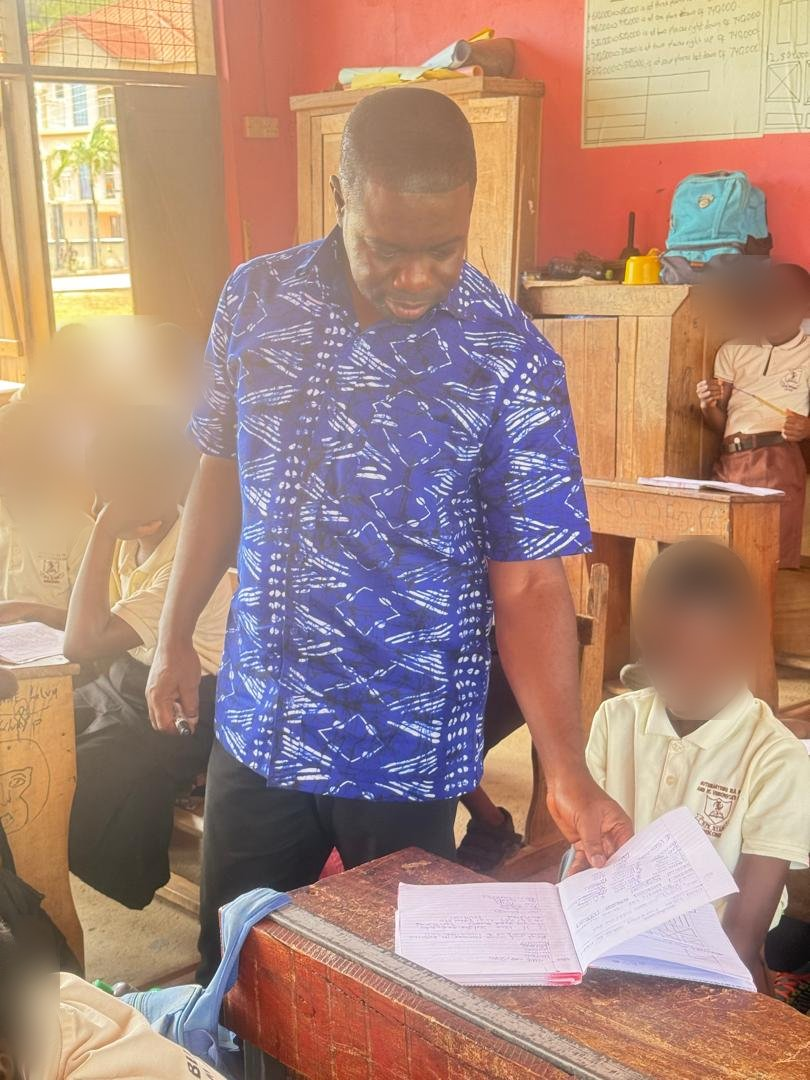
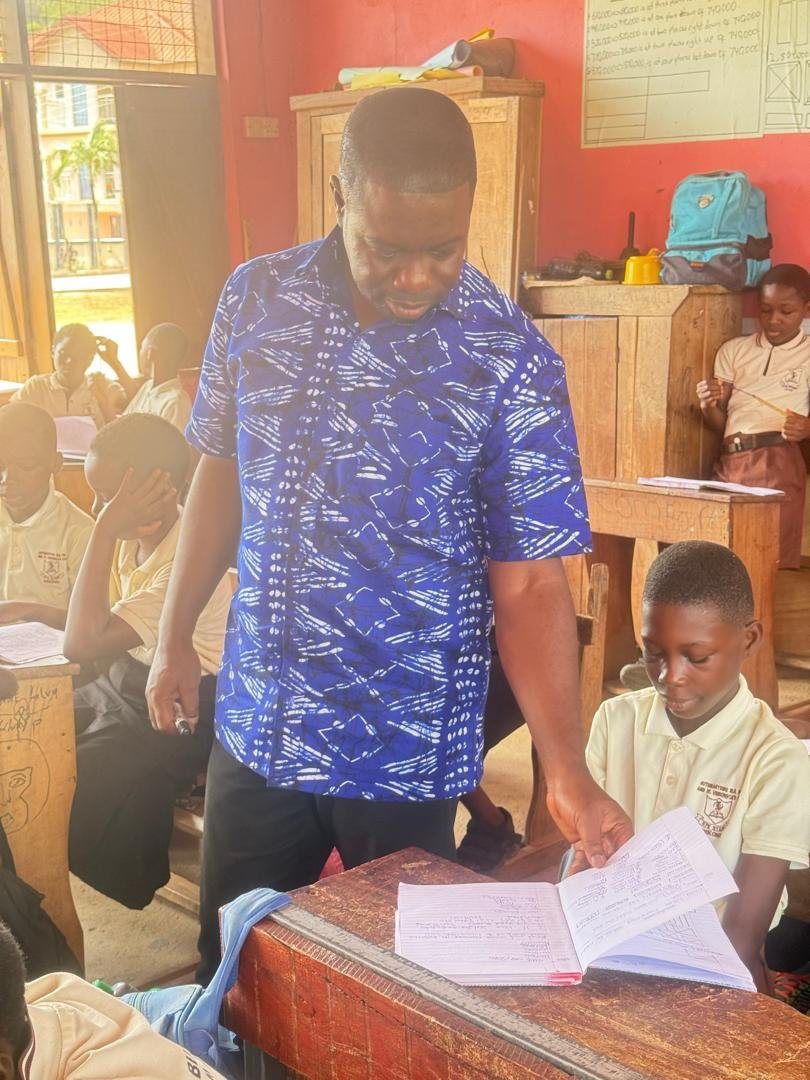
Show classroom photos unblurred and add Solomon's contact details
He confirmed the classroom photos may show learners' faces and that his
email and phone may appear on the site.

diff --git a/site/about.html b/site/about.html
@@ -180,6 +180,23 @@
       <p class="body-text" style="margin-top:14px;">Effective teaching requires preparation, good classroom management, continuous reflection and a willingness to receive feedback. My goal is to keep improving so that I can support learners academically and socially.</p>
     </div>
 
+    <div class="panel" id="contact">
+      <div class="panel-head">
+        <div class="focus-icon"><svg width="20" height="20" viewBox="0 0 24 24" fill="none" stroke="currentColor" stroke-width="1.8" stroke-linecap="round" stroke-linejoin="round"><rect x="3" y="5" width="18" height="14" rx="2"/><path d="M3.5 6.5l8.5 6.5 8.5-6.5"/></svg></div>
+        <h3>Get in Touch</h3>
+      </div>
+      <div class="info-grid">
+        <a class="info-item" href="mailto:solomonkofie80@gmail.com" style="text-decoration:none;color:inherit;">
+          <div class="info-icon"><svg width="18" height="18" viewBox="0 0 24 24" fill="none" stroke="currentColor" stroke-width="1.8" stroke-linecap="round" stroke-linejoin="round"><rect x="3" y="5" width="18" height="14" rx="2"/><path d="M3.5 6.5l8.5 6.5 8.5-6.5"/></svg></div>
+          <div><span class="info-label">Email</span><span class="info-value">solomonkofie80@gmail.com</span></div>
+        </a>
+        <a class="info-item" href="tel:+233244987635" style="text-decoration:none;color:inherit;">
+          <div class="info-icon"><svg width="18" height="18" viewBox="0 0 24 24" fill="none" stroke="currentColor" stroke-width="1.8" stroke-linecap="round" stroke-linejoin="round"><path d="M5 4h3.5l1.5 4-2 1.5a11 11 0 0 0 6.5 6.5l1.5-2 4 1.5V19a1.5 1.5 0 0 1-1.5 1.5A16.5 16.5 0 0 1 3.5 5.5 1.5 1.5 0 0 1 5 4z"/></svg></div>
+          <div><span class="info-label">Phone</span><span class="info-value">024 498 7635</span></div>
+        </a>
+      </div>
+    </div>
+
     <div class="block">
       <div>
         <div class="panel-head" style="margin-bottom:10px;">
@@ -200,6 +217,7 @@
       <a href="index.html">Home</a>
       <a href="about.html">About</a>
       <a href="portfolio.html">Portfolio</a>
+      <a href="mailto:solomonkofie80@gmail.com">Email Me</a>
     </div>
   </div>
 </footer>

diff --git a/site/evidence.html b/site/evidence.html
@@ -136,7 +136,7 @@
     </div>
 
     <div class="block">
-      <p style="font-size:13px;color:var(--ink-muted);">To protect their privacy, my lead mentor's phone number and the names of other staff members have been covered, and learners' faces in classroom photos are blurred.</p>
+      <p style="font-size:13px;color:var(--ink-muted);">To protect their privacy, my lead mentor's phone number and the names of other staff members have been covered.</p>
     </div>
   </div>
 </main>
@@ -148,6 +148,7 @@
       <a href="index.html">Home</a>
       <a href="about.html">About</a>
       <a href="portfolio.html">Portfolio</a>
+      <a href="mailto:solomonkofie80@gmail.com">Email Me</a>
     </div>
   </div>
 </footer>

diff --git a/site/development.html b/site/development.html
@@ -189,6 +189,7 @@
       <a href="index.html">Home</a>
       <a href="about.html">About</a>
       <a href="portfolio.html">Portfolio</a>
+      <a href="mailto:solomonkofie80@gmail.com">Email Me</a>
     </div>
   </div>
 </footer>

diff --git a/site/index.html b/site/index.html
@@ -188,6 +188,7 @@
       <a href="index.html">Home</a>
       <a href="about.html">About</a>
       <a href="portfolio.html">Portfolio</a>
+      <a href="mailto:solomonkofie80@gmail.com">Email Me</a>
     </div>
   </div>
 </footer>

diff --git a/site/internship.html b/site/internship.html
@@ -239,6 +239,7 @@
       <a href="index.html">Home</a>
       <a href="about.html">About</a>
       <a href="portfolio.html">Portfolio</a>
+      <a href="mailto:solomonkofie80@gmail.com">Email Me</a>
     </div>
   </div>
 </footer>

diff --git a/site/portfolio.html b/site/portfolio.html
@@ -316,6 +316,7 @@
       <a href="index.html">Home</a>
       <a href="about.html">About</a>
       <a href="portfolio.html">Portfolio</a>
+      <a href="mailto:solomonkofie80@gmail.com">Email Me</a>
     </div>
   </div>
 </footer>

diff --git a/site/reflections.html b/site/reflections.html
@@ -163,6 +163,7 @@
       <a href="index.html">Home</a>
       <a href="about.html">About</a>
       <a href="portfolio.html">Portfolio</a>
+      <a href="mailto:solomonkofie80@gmail.com">Email Me</a>
     </div>
   </div>
 </footer>
